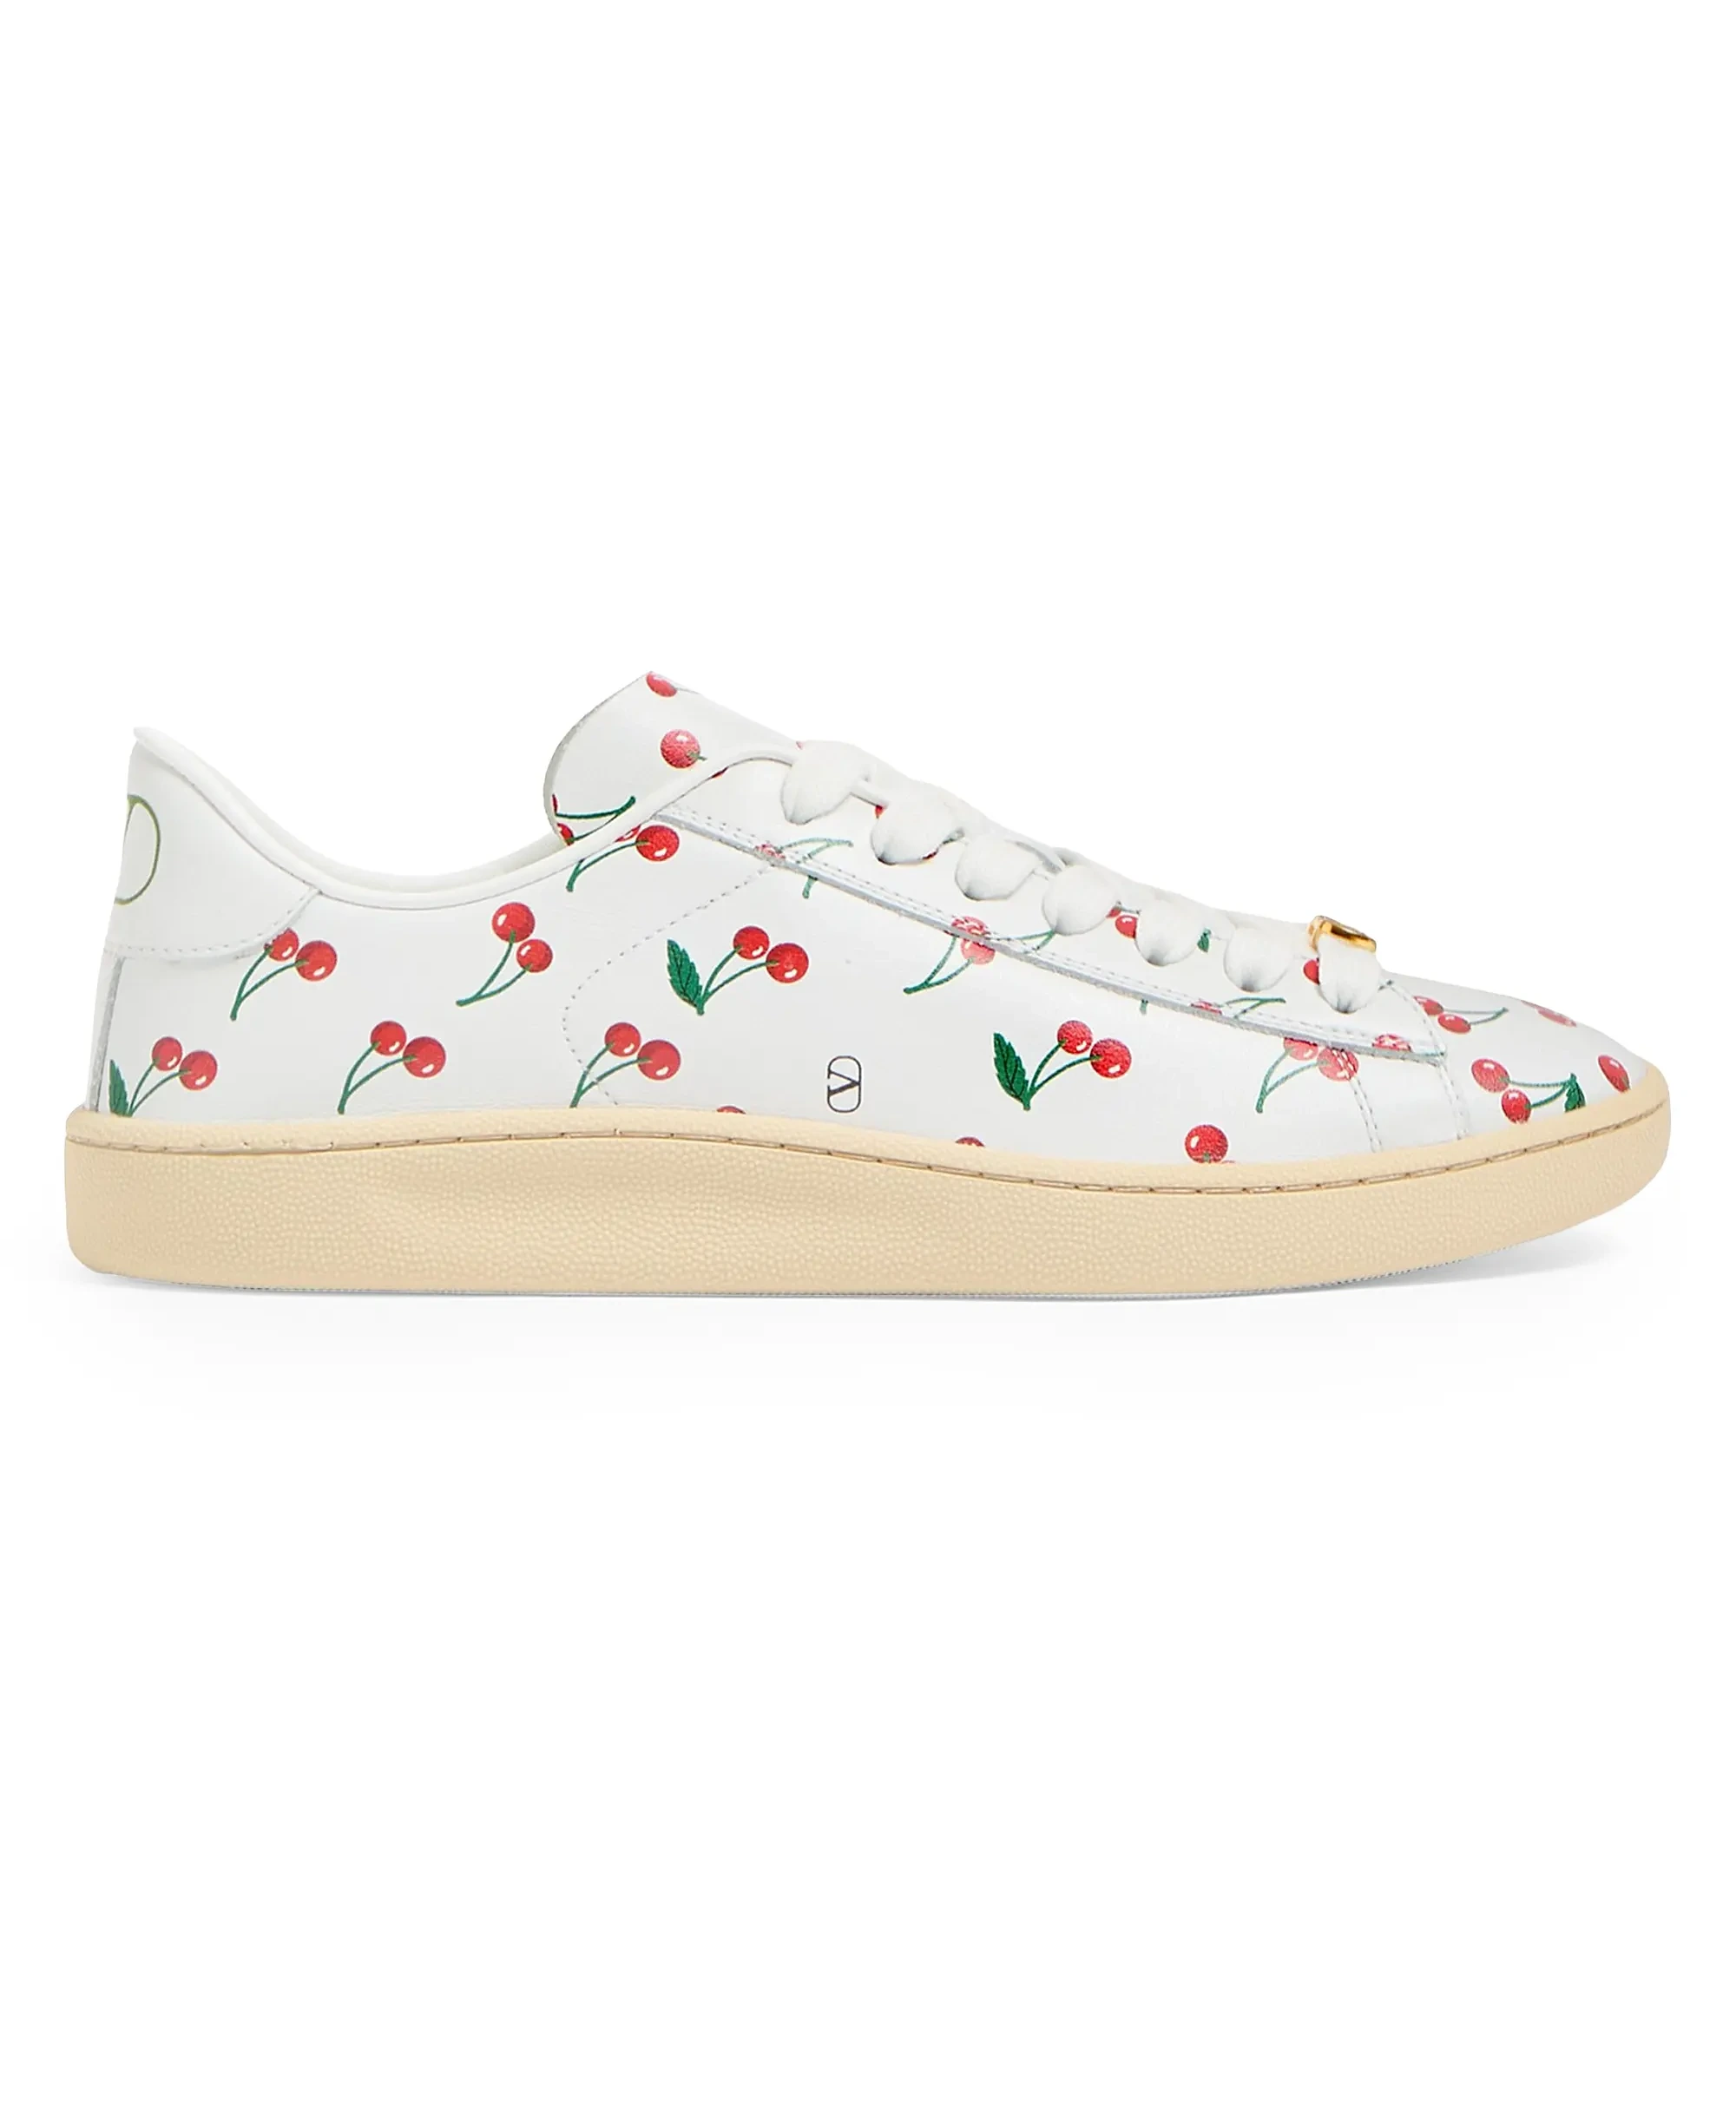
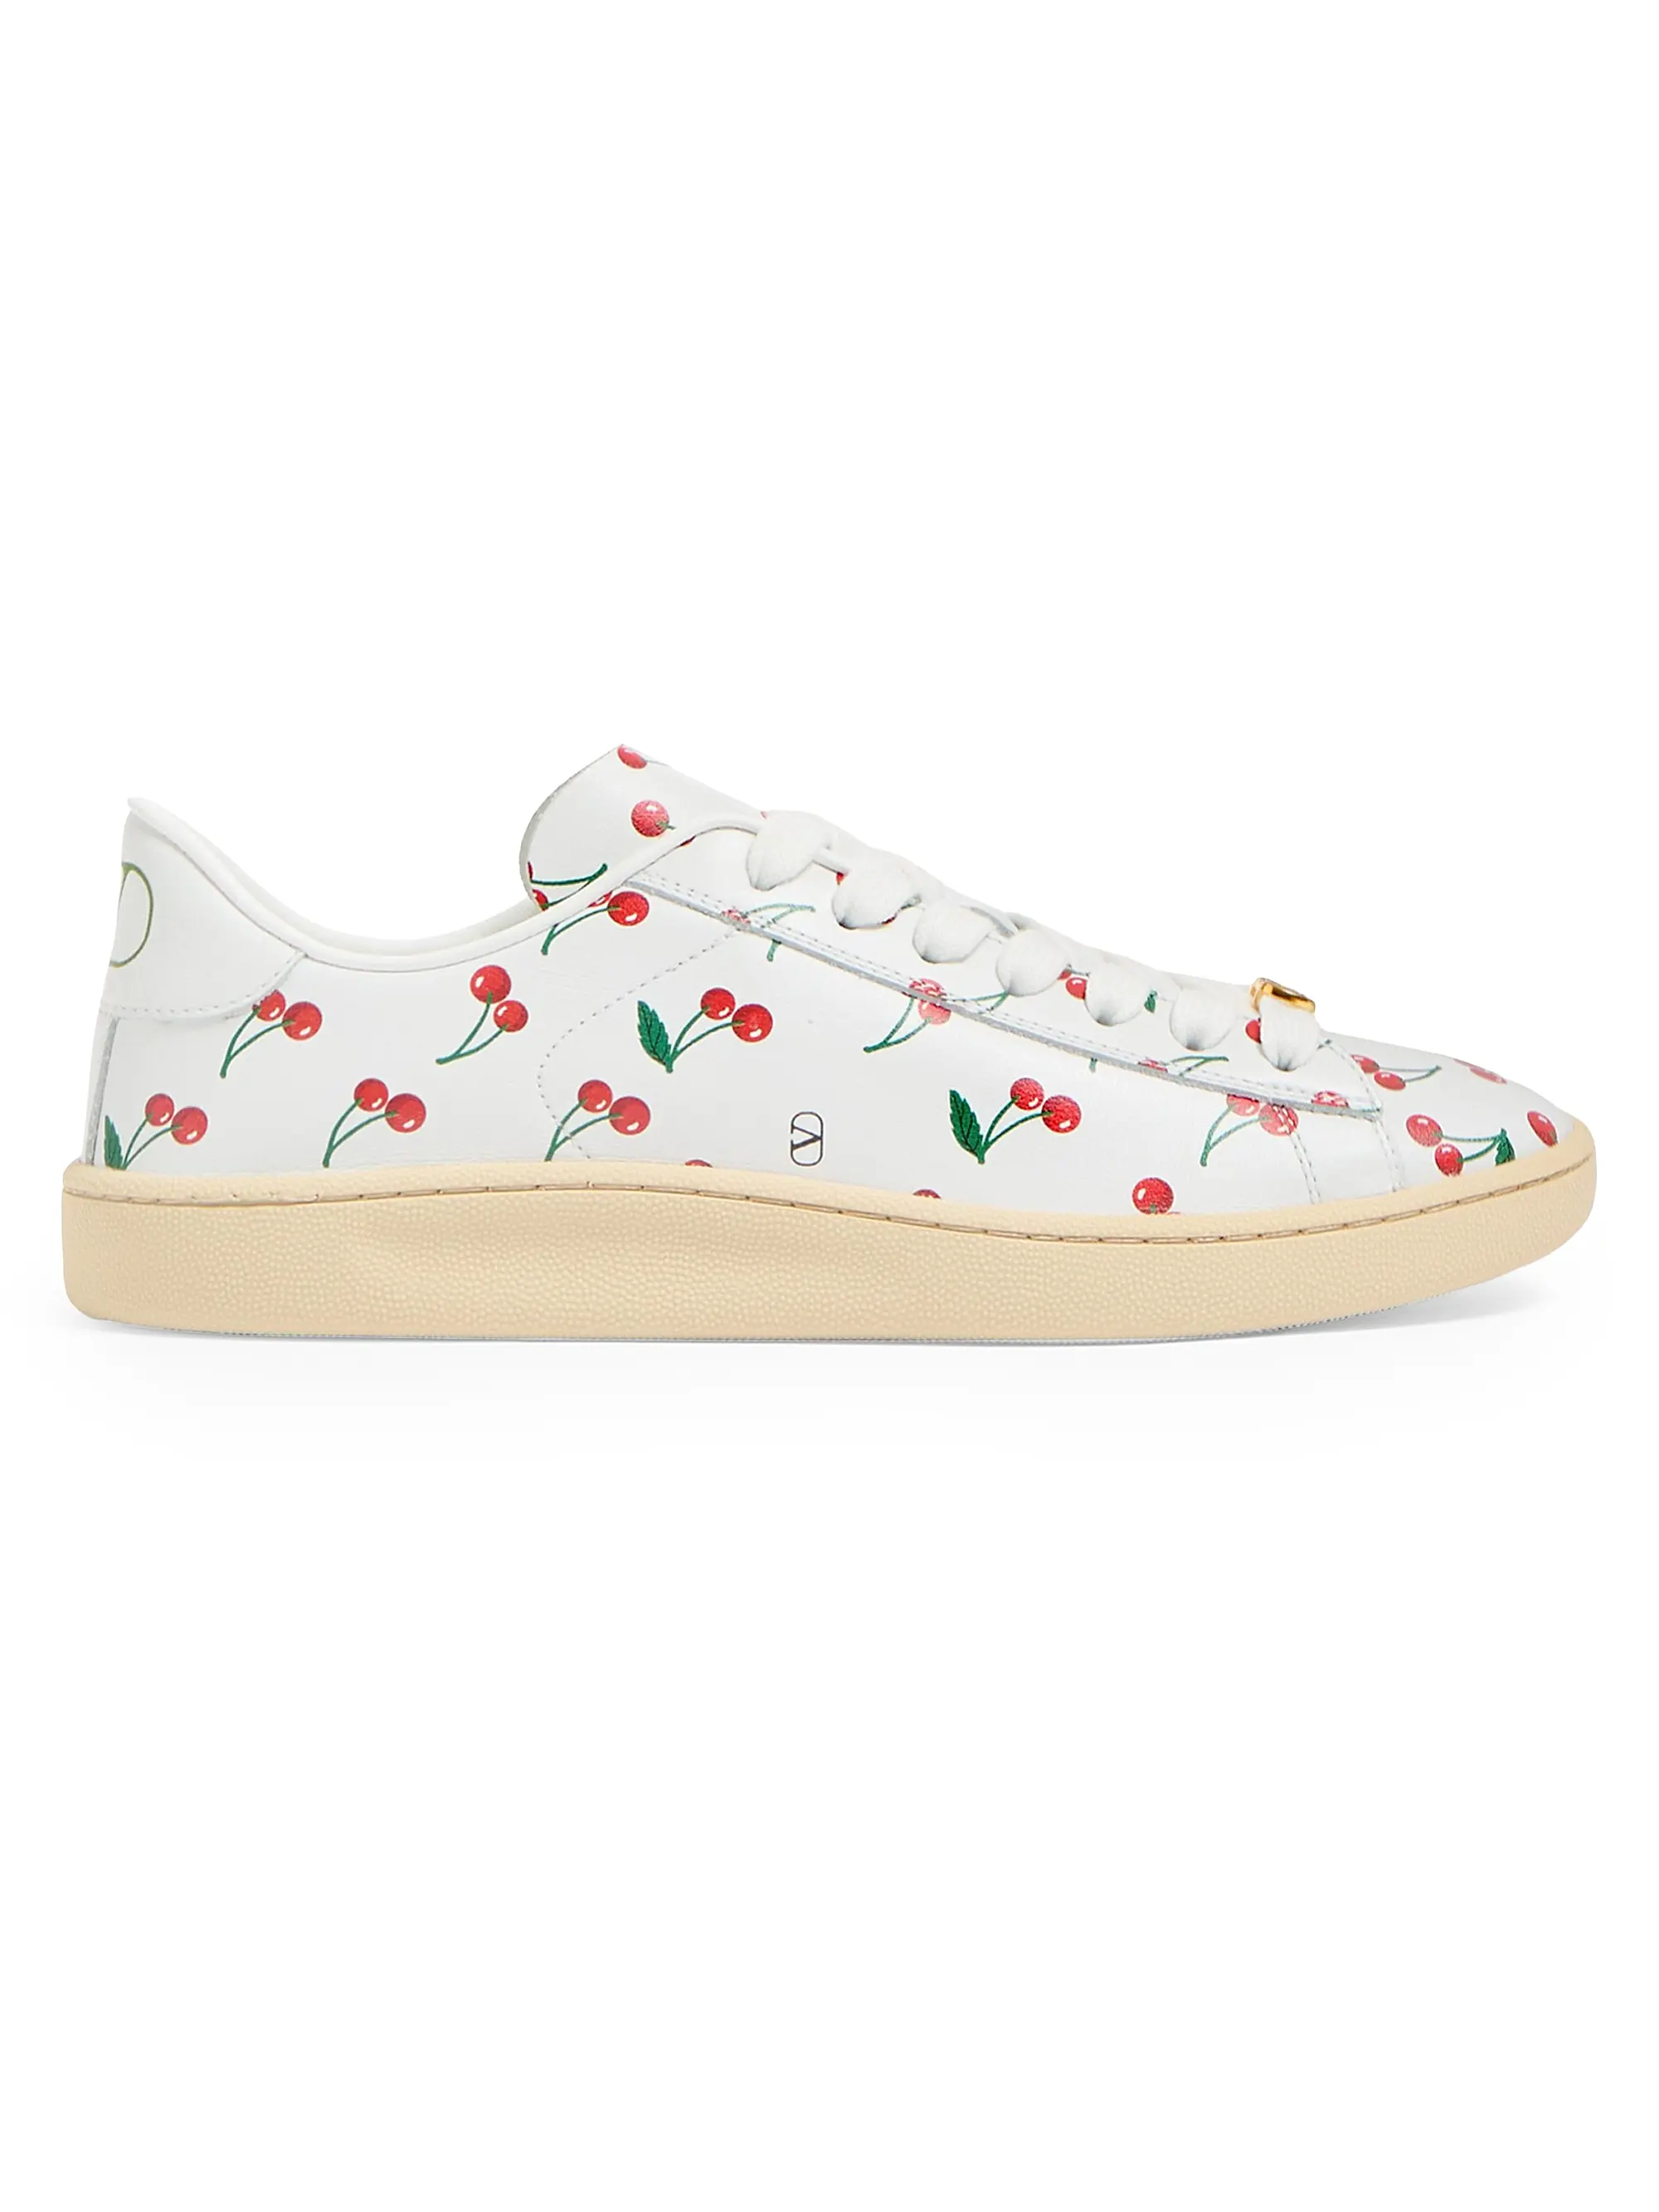
Normalize category names to lowercase in product data

Changed region(s): [[0.031, 0.3094, 0.961, 0.6188], [0.062, 0.3403, 0.124, 0.4332]]

diff --git a/js/shop.js b/js/shop.js
@@ -50,15 +50,15 @@ const products = [
   {id: 48, name: "Gucci necklace", price: 2250.00, category: "jewelry", image: "Images/Products/Jewelry/Gucci_Necklace.webp", Newest: false},
   {id: 49, name: "Gucci ring", price: 2250.00, category: "jewelry", image: "Images/Products/Jewelry/Gucci_Ring.webp", Newest: true},
   {id: 50, name: "Lana earrings", price: 1300.00, category: "jewelry", image: "Images/Products/Jewelry/Lana_Earrings.webp", Newest: false},
-  {id: 51, name: "Amiri sneakers", price: 1350.00, category: "Shoes", image: "Images/Products/Shoes/Amiri_Sneakers.webp", Newest: true},
-  {id: 52, name: "Dolce Gabana sneakers", price: 2400.00, category: "Shoes", image: "Images/Products/Shoes/Dolce_Gabana_Sneakers.webp", Newest: false},
-  {id: 53, name: "Givenchy boots", price: 2450.00, category: "Shoes", image: "Images/Products/Shoes/Givenchy_Boots.webp", Newest: true},
-  {id: 54, name: "Givenchy slide", price: 2500.00, category: "Shoes", image: "Images/Products/Shoes/Givenchy_Slide.webp", Newest: false},
-  {id: 55, name: "Gucci heels", price: 2550.00, category: "Shoes", image: "Images/Products/Shoes/Gucci_Heels.webp", Newest: true},
-  {id: 56, name: "Moschino heels", price: 2600.00, category: "Shoes", image: "Images/Products/Shoes/Moschino_Heels.webp", Newest: false},
-  {id: 57, name: "Valentino Garavani sneakers", price: 2650.00, category: "Shoes", image: "Images/Products/Shoes/Valentino_Garavani_Sneakers.webp", Newest: true},
-  {id: 58, name: "Versace heels", price: 2700.00, category: "Shoes", image: "Images/Products/Shoes/Versace_Heels.webp", Newest: false},
-  {id: 59, name: "Gucci sneakers", price: 1750.00, category: "Shoes", image: "Images/Products/Shoes/Gucci_Sneakers.webp", Newest: true}
+  {id: 51, name: "Amiri sneakers", price: 1350.00, category: "shoes", image: "Images/Products/Shoes/Amiri_Sneakers.webp", Newest: true},
+  {id: 52, name: "Dolce Gabana sneakers", price: 2400.00, category: "shoes", image: "Images/Products/Shoes/Dolce_Gabana_Sneakers.webp", Newest: false},
+  {id: 53, name: "Givenchy boots", price: 2450.00, category: "shoes", image: "Images/Products/Shoes/Givenchy_Boots.webp", Newest: true},
+  {id: 54, name: "Givenchy slide", price: 2500.00, category: "shoes", image: "Images/Products/Shoes/Givenchy_Slide.webp", Newest: false},
+  {id: 55, name: "Gucci heels", price: 2550.00, category: "shoes", image: "Images/Products/Shoes/Gucci_Heels.webp", Newest: true},
+  {id: 56, name: "Moschino heels", price: 2600.00, category: "shoes", image: "Images/Products/Shoes/Moschino_Heels.webp", Newest: false},
+  {id: 57, name: "Valentino Garavani sneakers", price: 2650.00, category: "shoes", image: "Images/Products/Shoes/Valentino_Garavani_Sneakers.webp", Newest: true},
+  {id: 58, name: "Versace heels", price: 2700.00, category: "shoes", image: "Images/Products/Shoes/Versace_Heels.webp", Newest: false},
+  {id: 59, name: "Gucci sneakers", price: 1750.00, category: "shoes", image: "Images/Products/Shoes/Gucci_Sneakers.webp", Newest: true}
 ];
 
 // Create one product card
@@ -129,6 +129,5 @@ document.querySelectorAll(".filter-btn").forEach(button => {
   });
 });
 
-// Sort
-
+// Search 
   